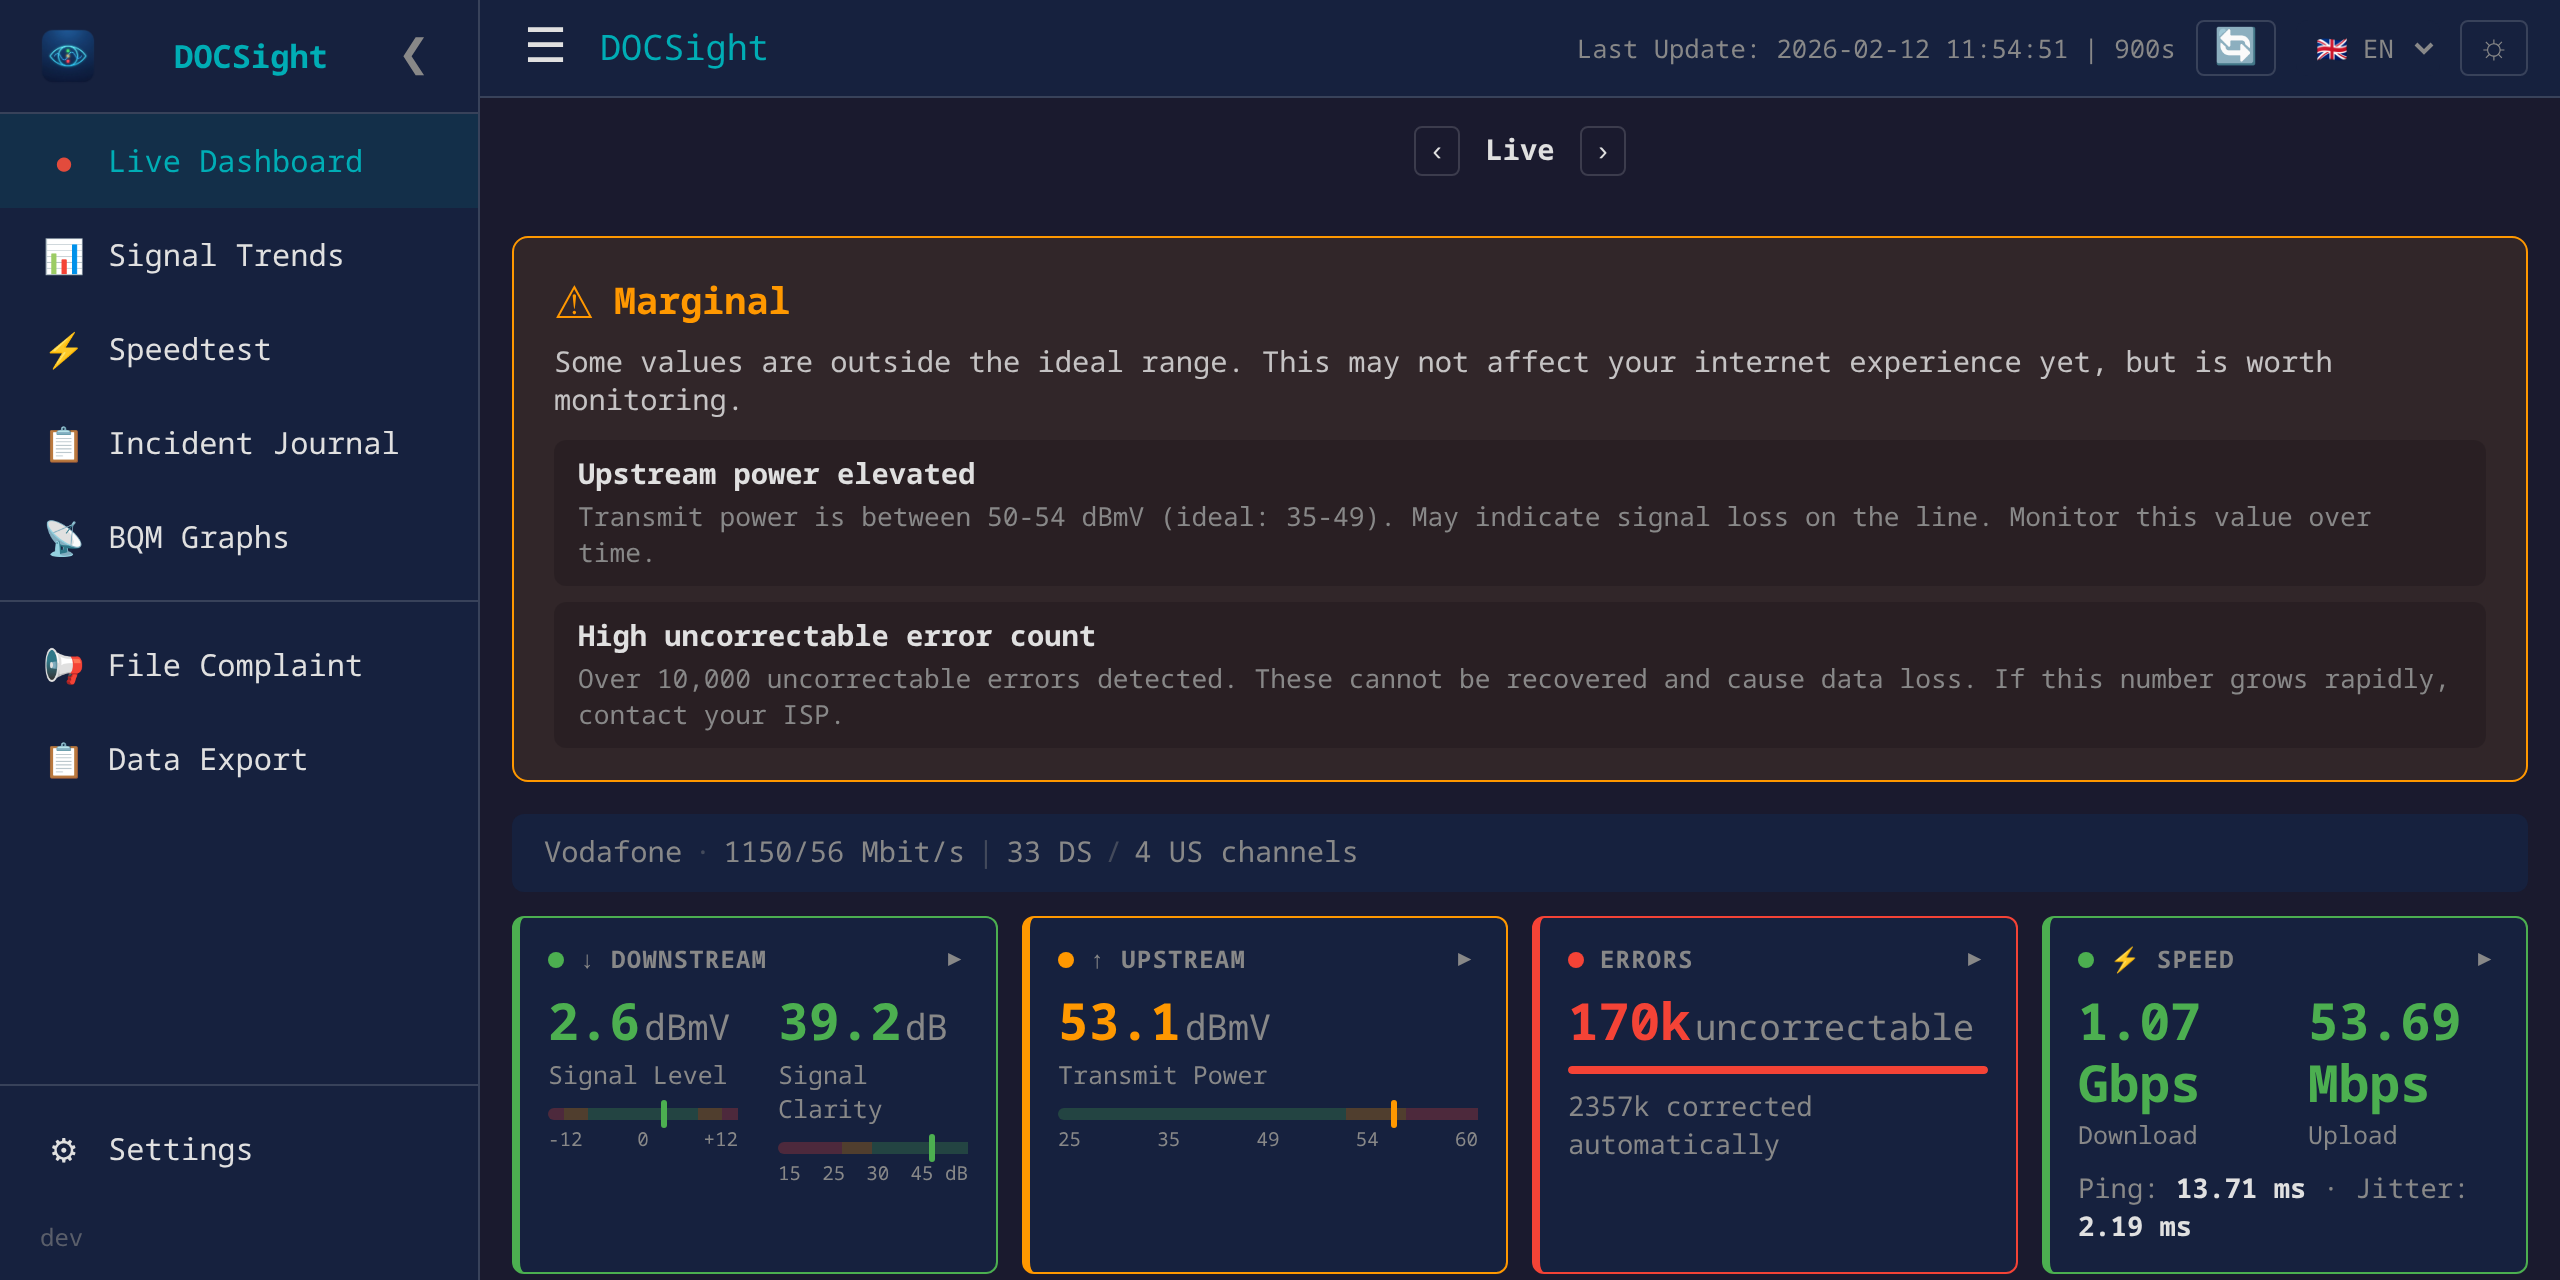
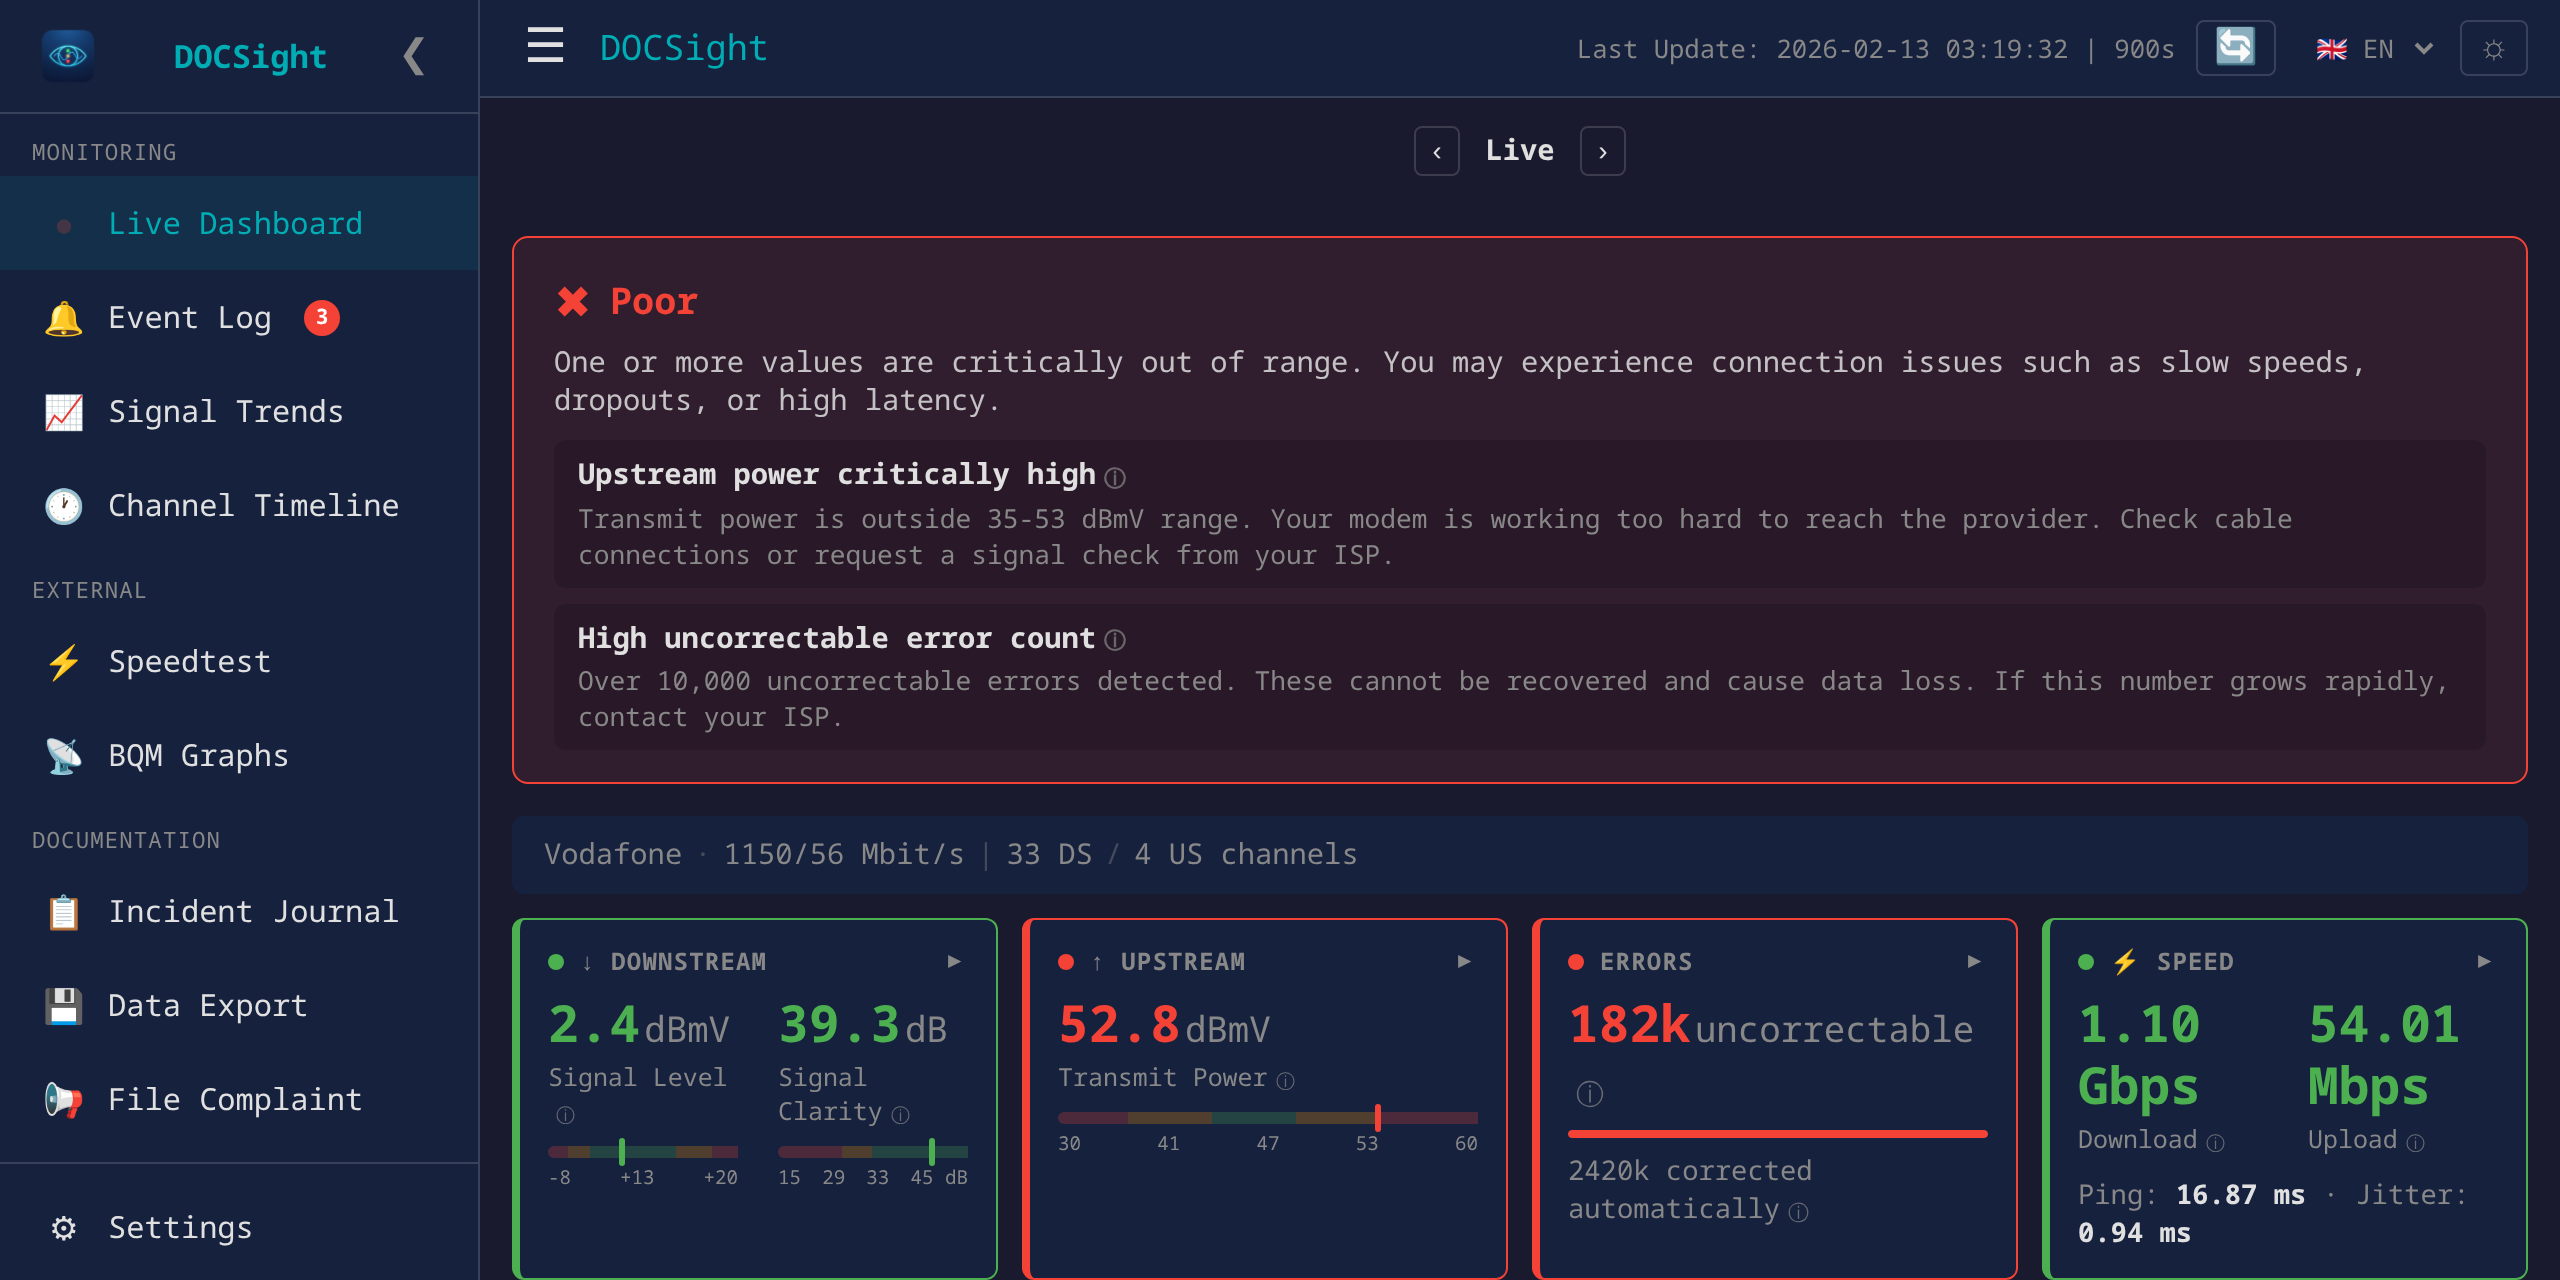
Update all screenshots, add Channel Timeline and Event Log screenshots

diff --git a/README.md b/README.md
@@ -95,6 +95,10 @@ Open `http://localhost:8765`, enter your router login, done. [Full installation 
 |---|---|
 | ![Speedtest](docs/screenshots/speedtest.png) | ![Journal](docs/screenshots/journal.png) |
 
+| Channel Timeline | Event Log |
+|---|---|
+| ![Channel Timeline](docs/screenshots/channel-timeline.png) | ![Events](docs/screenshots/events.png) |
+
 </details>
 
 ---
